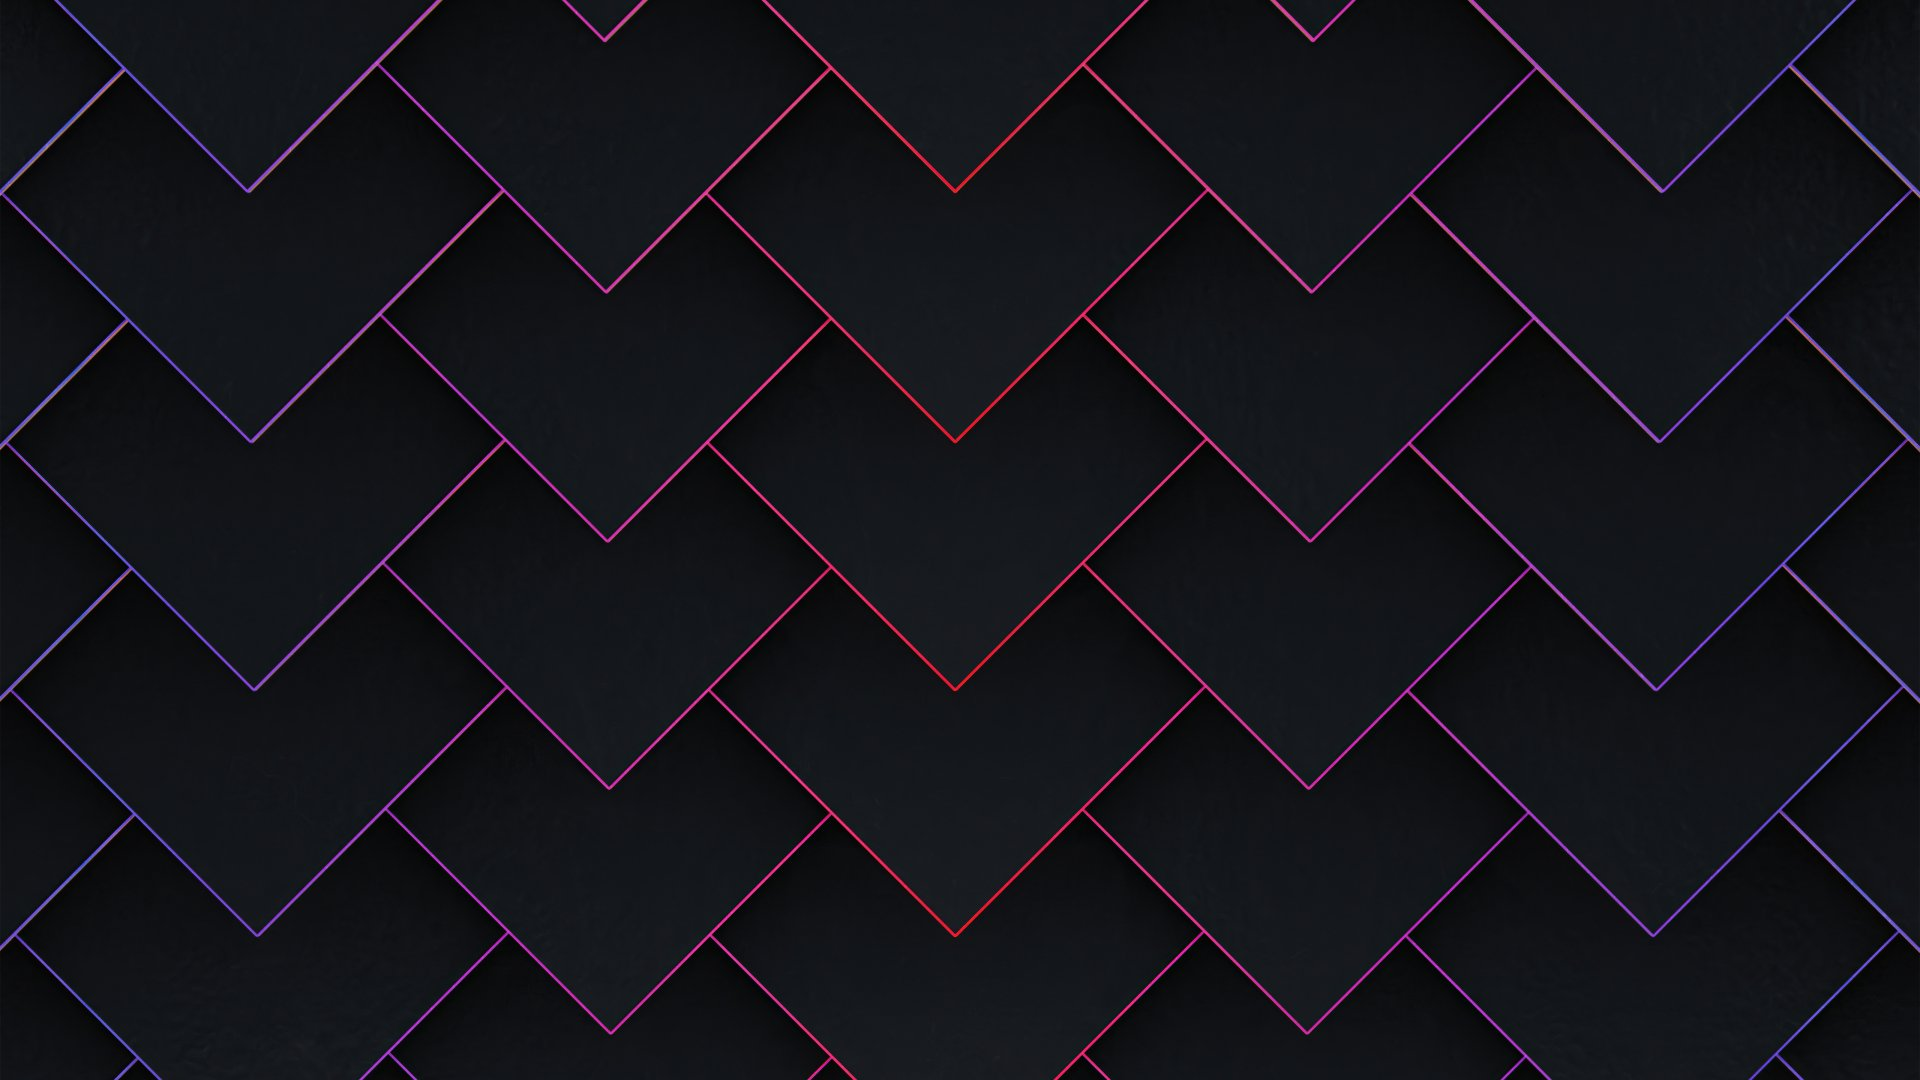
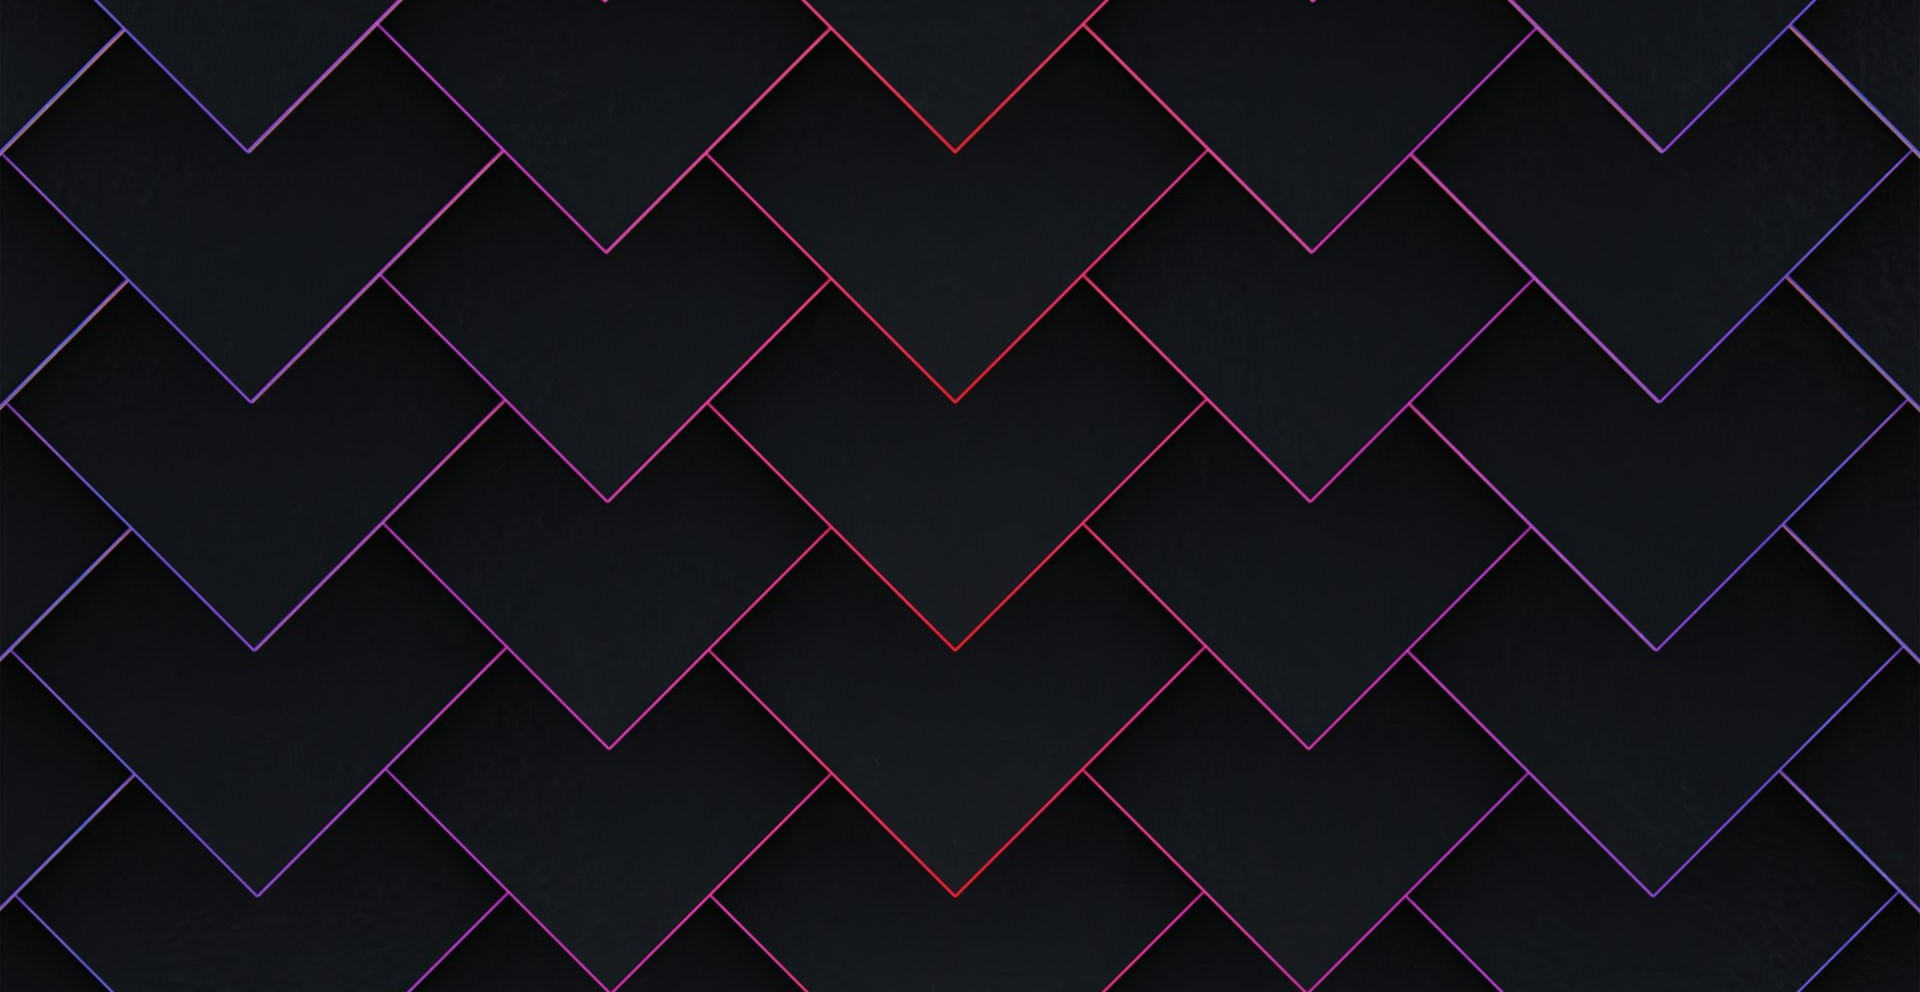
Make cosmetic changes and fix empty searches

diff --git a/src/presentational/TrackList.js b/src/presentational/TrackList.js
@@ -10,10 +10,10 @@ export default function TrackList(props) {
 
     return (
         <div style={tracklistStyles}>
-            {tracks.map((track) => (
-                <Track songId={track.id} songName={track.name} artistName={track.artists.map((artist) => artist.name).join(', ')} onClick={onClick}/>
+            {tracks ? tracks.map((track) => (
+                <Track songId={track.id} text={props.text} songName={track.name} artistName={track.artists ? track.artists.map((artist) => artist.name).join(', ') : ''} onClick={onClick}/>
             ))
-            }
+            : <h2 style={{marginLeft: '2rem'}}>No results to show</h2>}
         </div>
     );
 }

diff --git a/src/presentational/styles/Track.module.css b/src/presentational/styles/Track.module.css
@@ -16,7 +16,21 @@
 }
 
 .AddDeleteBtn {
-    background-color: none;
-    max-height: 20%;
+    background-color: rgb(9, 189, 230);
+    font-family: -apple-system, BlinkMacSystemFont, 'Segoe UI', 'Roboto', 'Oxygen',
+    'Ubuntu', 'Cantarell', 'Fira Sans', 'Droid Sans', 'Helvetica Neue',
+    sans-serif;
+    font-size: 1rem;
+    font-weight: bolder;
+    min-height: 2rem;
+    min-width: 3rem;
     margin-right: 1rem;
+    border-radius: 20px;
+    box-shadow: none;
+    border: none;
+}
+
+.AddDeleteBtn:active {
+    background-color: rgb(76, 0, 152);
+    color: white;
 }

diff --git a/src/presentational/SearchBar.js b/src/presentational/SearchBar.js
@@ -13,8 +13,8 @@ export default function SearchBar(props) {
 
     return (
         <form className={styles.SearchBarContainer} onSubmit={handleSubmit} value={props.value}>
-            <label for='SearchBar' className={styles.label}>Search</label>
             <input id='SearchBar' className={styles.SearchBar} type='text' value={props.value} onChange={props.onChange}/>
+            <label for='SearchBar' className={styles.label}><button className={styles.searchButton}>SEARCH</button></label>
         </form>
     )
 }

diff --git a/src/presentational/styles/SearchBar.module.css b/src/presentational/styles/SearchBar.module.css
@@ -25,3 +25,16 @@
     'Ubuntu', 'Cantarell', 'Fira Sans', 'Droid Sans', 'Helvetica Neue',
     sans-serif;
 }
+
+.searchButton {
+    font-family: -apple-system, BlinkMacSystemFont, 'Segoe UI', 'Roboto', 'Oxygen',
+    'Ubuntu', 'Cantarell', 'Fira Sans', 'Droid Sans', 'Helvetica Neue',
+    sans-serif;
+    font-size: 1.75rem;
+    border-radius: 3rem;
+    padding: 1rem;
+    border: solid white 0.1rem;
+    background-color: rgb(34, 6, 52);
+    color: white;
+    box-shadow: inset;
+}

diff --git a/public/index.html b/public/index.html
@@ -15,6 +15,7 @@
       user's mobile device or desktop. See https://developers.google.com/web/fundamentals/web-app-manifest/
     -->
     <link rel="manifest" href="%PUBLIC_URL%/manifest.json" />
+    <link rel="stylesheet" href="https://cdnjs.cloudflare.com/ajax/libs/font-awesome/4.7.0/css/font-awesome.min.css">
     <!--
       Notice the use of %PUBLIC_URL% in the tags above.
       It will be replaced with the URL of the `public` folder during the build.

diff --git a/src/presentational/Track.js b/src/presentational/Track.js
@@ -10,7 +10,7 @@ export default function Track(props) {
                 <h3 className={styles.songName}>{songName}</h3>
                 <p>{artistName}</p>
             </div>
-            <button className={styles.AddDeleteBtn} value={songId} onClick={onClick}>Add/delete</button>
+            <button className={styles.AddDeleteBtn} value={songId} onClick={onClick}>{props.text}</button>
         </div>
     )
 }

diff --git a/src/presentational/SearchResults.js b/src/presentational/SearchResults.js
@@ -14,7 +14,7 @@ export default function SearchResults(props) {
     return (
         <div className={styles.SearchResultsContainer}>
             <h2 style={titleStyle}>Results</h2>
-            <TrackList tracks={searchResults} onClick={addSongToPlaylist}/>
+            <TrackList text='Add' tracks={searchResults} onClick={addSongToPlaylist}/>
         </div>
     )
 }

diff --git a/src/presentational/Playlist.js b/src/presentational/Playlist.js
@@ -14,7 +14,7 @@ export default function Playlist(props) {
     return (
         <div className={styles.PlaylistContainer}>
             <h2 style={titleStyle}>Playlist</h2>
-            <TrackList tracks={playlist} onClick={removeSongFromPlaylist}/>
+            <TrackList tracks={playlist} onClick={removeSongFromPlaylist} text='Delete'/>
         </div>
     )
 }

diff --git a/src/App.css b/src/App.css
@@ -1,8 +1,9 @@
 .App {
   text-align: center;
   background-image: url(./resources/thumb-1920-1146320.jpg);
-  background-size: cover;
-  background-position-x:center;
+  background-size: contain;
+  background-position: center;
+  background-repeat: repeat;
   min-height: 100vh;
 }
 
